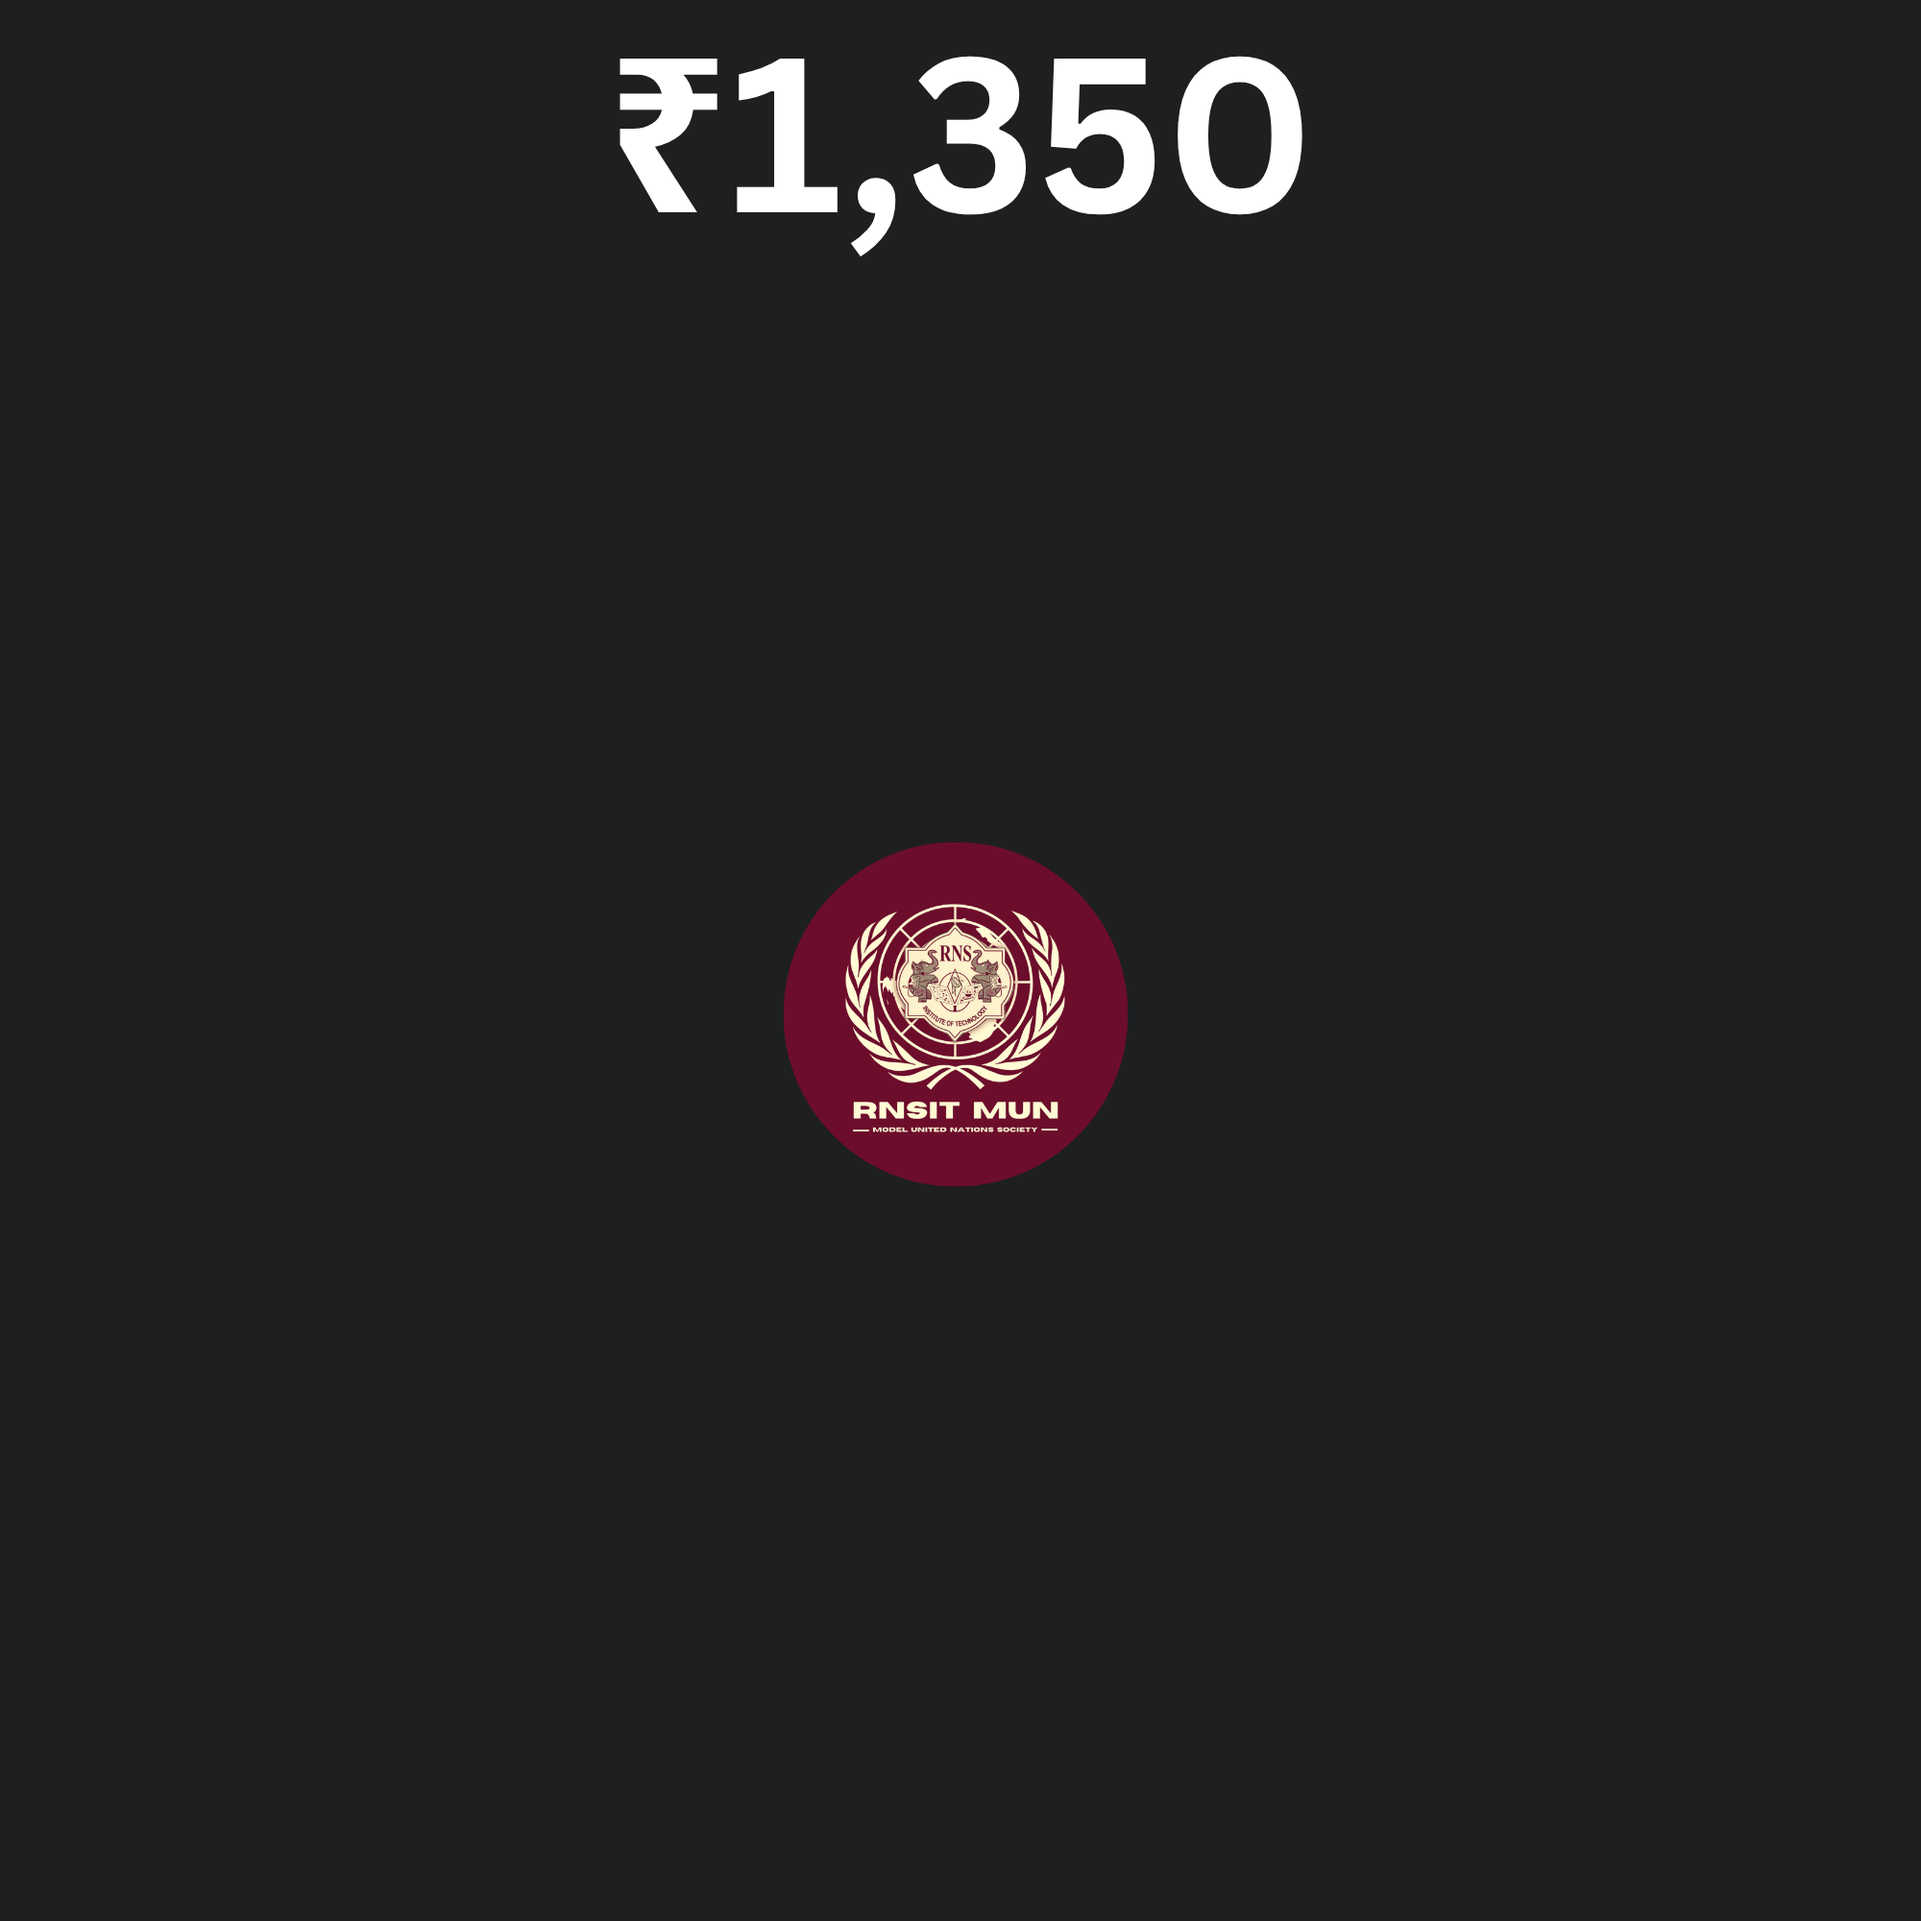
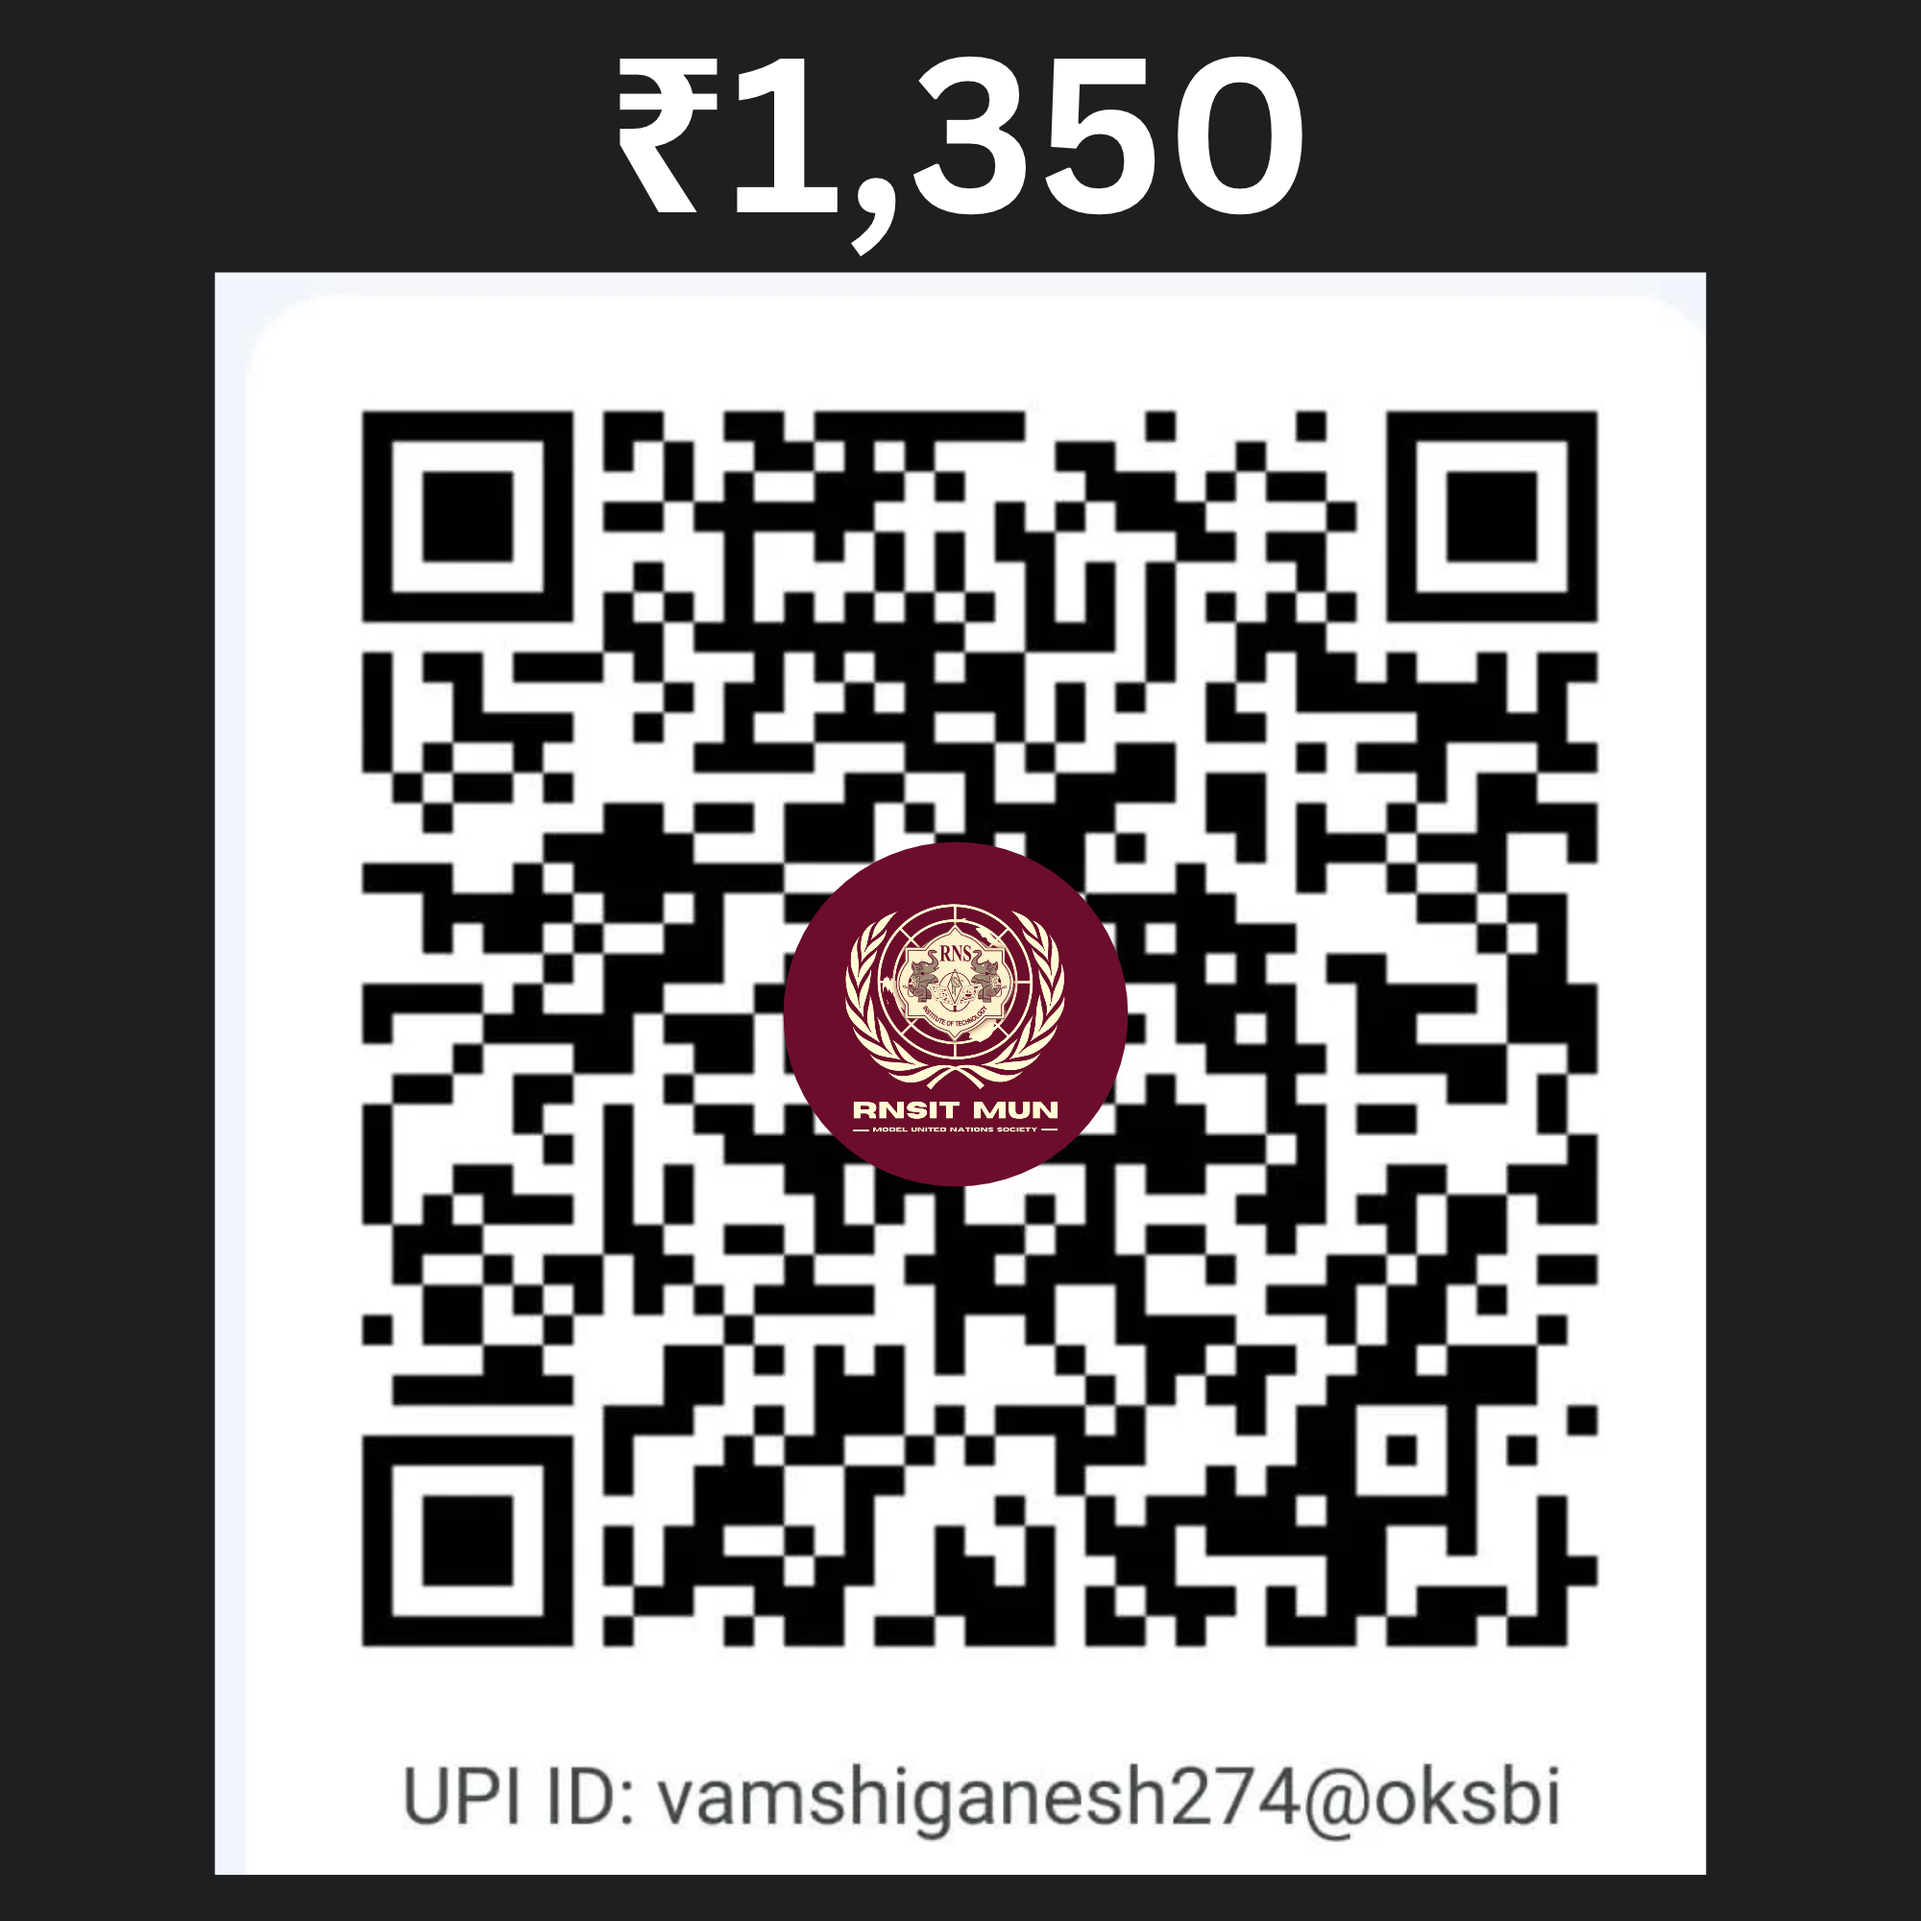
feat: fix external QR rotation & display, update designation to Delegate Affairs, and bump SW v11

diff --git a/registration.js b/registration.js
@@ -1,3 +1,6 @@
+    // Always clear stale session QR pin on fresh page load to guarantee dynamic rotation
+    try { sessionStorage.removeItem('mun26_assigned_ext_qr'); } catch (e) {}
+
     const COMMITTEE_MATRIX_LINKS = {
       all: 'https://docs.google.com/spreadsheets/d/1qOp6gJYndOc7b3xpyF1BmxrFWXyaRoDa/edit?gid=201693632#gid=201693632',
       unsc: 'https://docs.google.com/spreadsheets/d/1ilmTRceKjf9o5yGb820WMFA7UygDcb8bF_lIhUpvFQ8/edit?gid=1436649926#gid=1436649926',
@@ -2524,8 +2527,9 @@
       const regBackdrop = document.getElementById('registration-modal-backdrop');
       const regCard = document.getElementById('registration-modal-card');
 
-      // Clear any transient screenshot state
+      // Clear any transient screenshot state and unpin external QR
       resetPaymentScreenshotState();
+      try { sessionStorage.removeItem('mun26_assigned_ext_qr'); } catch (e) {}
 
       // Check if a saved draft exists in sessionStorage
       const restored = restoreDraft(forceType || currentDelegateType);
@@ -2569,6 +2573,7 @@
 
     // Close Registration Modal
     function closeRegistrationModal(fromPopState = false) {
+      try { sessionStorage.removeItem('mun26_assigned_ext_qr'); } catch (e) {}
       if (!fromPopState) {
         popModalHistoryState();
       }
@@ -3459,25 +3464,27 @@
 
     let _currentExternalAssignedUPI = 'nikhilnayak2005@okicici';
 
-    async function updateExternalPaymentQR() {
-      // 1. Session Pinning: If an account was already assigned during this registration flow, reuse it immediately
-      try {
-        const cached = sessionStorage.getItem('mun26_assigned_ext_qr');
-        if (cached) {
-          const parsed = JSON.parse(cached);
-          if (parsed && parsed.upiId && parsed.qrUrl) {
-            applyExternalQRUI(parsed.upiId, parsed.qrUrl);
-            return;
+    async function updateExternalPaymentQR(forceRefresh = false) {
+      // 1. Session Pinning: Only reuse if explicitly not force-refreshed and already assigned
+      if (!forceRefresh) {
+        try {
+          const cached = sessionStorage.getItem('mun26_assigned_ext_qr');
+          if (cached) {
+            const parsed = JSON.parse(cached);
+            if (parsed && parsed.upiId && parsed.qrUrl) {
+              applyExternalQRUI(parsed.upiId, parsed.qrUrl);
+              return;
+            }
           }
-        }
-      } catch (e) {}
+        } catch (e) {}
+      }
 
       // 2. Instant Zero-Flicker Synchronous Rotation: Apply client rotation immediately so the UI is NEVER blank or stale
-      applyClientExternalQRRotation();
+      applyClientExternalQRRotation(forceRefresh ? _currentExternalAssignedUPI : null);
 
       // 3. Background Sync with Server Rotation Engine (enforces <= 17 appearances per 24h rolling window globally)
       try {
-        const resp = await fetch('/api/get-external-qr');
+        const resp = await fetch(`/api/get-external-qr?t=${Date.now()}`, { cache: 'no-store' });
         if (resp.ok) {
           const data = await resp.json();
           if (data && data.success && data.upiId && data.qrUrl) {
@@ -3488,6 +3495,29 @@
       } catch (err) {
         console.warn('[External QR] Remote rotation notice:', err);
       }
+    }
+
+    function rotateExternalPaymentQR(event) {
+      if (event) {
+        event.preventDefault();
+        event.stopPropagation();
+      }
+      try {
+        sessionStorage.removeItem('mun26_assigned_ext_qr');
+      } catch (e) {}
+
+      const btn = document.getElementById('switch-external-upi-btn');
+      if (btn) {
+        const origHTML = btn.innerHTML;
+        btn.innerHTML = 'Switching UPI...';
+        btn.style.opacity = '0.7';
+        setTimeout(() => {
+          btn.innerHTML = origHTML;
+          btn.style.opacity = '1';
+        }, 800);
+      }
+
+      updateExternalPaymentQR(true);
     }
 
     function applyExternalQRUI(upiId, qrUrl) {
@@ -3504,7 +3534,7 @@
       }
     }
 
-    function applyClientExternalQRRotation() {
+    function applyClientExternalQRRotation(avoidUpiId = null) {
       const LOCAL_KEY = 'mun26_ext_qr_impressions';
       const MAX_PER_24H = 17;
       const WINDOW_MS = 24 * 60 * 60 * 1000;
@@ -3526,16 +3556,20 @@
       });
 
       let eligible = EXTERNAL_QR_POOL.filter(acc => counts[acc.upiId] < MAX_PER_24H);
-      let selected;
-      if (eligible.length > 0) {
-        const minCount = Math.min(...eligible.map(acc => counts[acc.upiId]));
-        const candidates = eligible.filter(acc => counts[acc.upiId] === minCount);
-        selected = candidates[Math.floor(Math.random() * candidates.length)];
-      } else {
-        const minCount = Math.min(...EXTERNAL_QR_POOL.map(acc => counts[acc.upiId]));
-        const candidates = EXTERNAL_QR_POOL.filter(acc => counts[acc.upiId] === minCount);
-        selected = candidates[Math.floor(Math.random() * candidates.length)];
+      if (avoidUpiId && eligible.length > 1) {
+        const filtered = eligible.filter(acc => acc.upiId !== avoidUpiId);
+        if (filtered.length > 0) eligible = filtered;
       }
+
+      let pool = eligible.length > 0 ? eligible : EXTERNAL_QR_POOL;
+      if (avoidUpiId && pool.length > 1) {
+        const filtered = pool.filter(acc => acc.upiId !== avoidUpiId);
+        if (filtered.length > 0) pool = filtered;
+      }
+
+      const minCount = Math.min(...pool.map(acc => counts[acc.upiId]));
+      const candidates = pool.filter(acc => counts[acc.upiId] === minCount);
+      const selected = candidates[Math.floor(Math.random() * candidates.length)];
 
       impressions.push({ upiId: selected.upiId, time: now });
       try {
@@ -5282,7 +5316,7 @@
             </div>
             <div class="receipt-contact-card">
               <span class="contact-name">Dhatri</span>
-              <span class="contact-role">Charge d'Affaires</span>
+              <span class="contact-role">Delegate Affairs</span>
               <span class="contact-phone">+91 90351 20294</span>
             </div>
           </div>
@@ -5421,7 +5455,7 @@
             </div>
             <div class="receipt-contact-card">
               <span class="contact-name">Dhatri</span>
-              <span class="contact-role">Charge d'Affaires</span>
+              <span class="contact-role">Delegate Affairs</span>
               <span class="contact-phone">+91 90351 20294</span>
             </div>
           </div>
@@ -5933,6 +5967,8 @@ Object.assign(window, {
   selectExternalCategory,
   handleProceedToExternalPayment,
   copyExternalUPI,
+  updateExternalPaymentQR,
+  rotateExternalPaymentQR,
   handleSuccessDone,
   printRegistrationReceipt,
   clearDraftAndDismissBanner,

diff --git a/registration.html b/registration.html
@@ -1547,6 +1547,15 @@
                 Copy
               </button>
             </div>
+
+            <div style="text-align: center; margin-top: 8px;">
+              <button type="button" id="switch-external-upi-btn" onclick="rotateExternalPaymentQR(event)"
+                style="background: transparent; border: none; color: var(--accent-color); font-size: 0.74rem; font-weight: 800; cursor: pointer; text-decoration: underline; padding: 2px 6px; font-family: var(--font-sans); display: inline-flex; align-items: center; gap: 4px;"
+                title="Rotate to another verified UPI ID and QR code">
+                <svg width="12" height="12" viewBox="0 0 24 24" fill="none" stroke="currentColor" stroke-width="2.5" stroke-linecap="round" stroke-linejoin="round" aria-hidden="true"><path d="M21.5 2v6h-6M21.34 15.57a10 10 0 1 1-.57-8.38l5.67-5.67"/></svg>
+                Switch UPI ID / Rotate QR
+              </button>
+            </div>
           </div>
 
           <!-- Non-Refundable Policy Notice -->
@@ -1774,6 +1783,7 @@
       };
     })();
   </script>
+  <script src="/register-sw.js"></script>
 </body>
 
 </html>

diff --git a/code-of-conduct.html b/code-of-conduct.html
@@ -1464,7 +1464,7 @@
             <div class="coc-contact-card">
               <div class="coc-card-header">
                 <span class="contact-name">Dhatri</span>
-                <span class="contact-role">Charge D'Affaires</span>
+                <span class="contact-role">Delegate Affairs</span>
               </div>
               <div class="contact-phone-row">
                 <a href="tel:+919035120294" class="contact-phone-link" title="Call Dhatri (+91 90351 20294)">

diff --git a/public/sw.js b/public/sw.js
@@ -1,4 +1,4 @@
-const CACHE_NAME = 'mun-cache-v9';
+const CACHE_NAME = 'mun-cache-v11';
 const PRECACHE_ASSETS = [
   '/',
   '/registration',
@@ -48,6 +48,7 @@ self.addEventListener('fetch', (e) => {
     e.request.method !== 'GET' ||
     !e.request.url.startsWith(self.location.origin) ||
     e.request.url.includes('/api/') ||
+    e.request.url.includes('/Payment_') ||
     e.request.url.includes('/@') ||
     e.request.url.includes('node_modules')
   ) {

diff --git a/stay-connected.html b/stay-connected.html
@@ -917,7 +917,7 @@
         <div class="person-contact-card">
           <div class="person-header-row">
             <h3 class="person-name">Dhatri</h3>
-            <div class="person-role-badge">Charge D'Affaires</div>
+            <div class="person-role-badge">Delegate Affairs</div>
           </div>
           <div class="person-phone-row">
             <a href="tel:+919035120294" class="person-phone-link" aria-label="Call Dhatri (+91 90351 20294)">

diff --git a/api/get-external-qr.js b/api/get-external-qr.js
@@ -74,6 +74,10 @@ export default async function handler(req, res) {
     'X-CSRF-Token, X-Requested-With, Accept, Accept-Version, Content-Length, Content-MD5, Content-Type, Date, X-Api-Version'
   );
 
+  res.setHeader('Cache-Control', 'no-store, no-cache, must-revalidate, proxy-revalidate');
+  res.setHeader('Pragma', 'no-cache');
+  res.setHeader('Expires', '0');
+
   if (req.method === 'OPTIONS') return res.status(200).end();
 
   try {

diff --git a/public/register-sw.js b/public/register-sw.js
@@ -1,6 +1,6 @@
 if ('serviceWorker' in navigator) {
   window.addEventListener('load', () => {
-    navigator.serviceWorker.register('/sw.js', { scope: '/' })
+    navigator.serviceWorker.register('/sw.js?v=11', { scope: '/' })
       .then((reg) => {
         console.log('Service Worker registered successfully on scope:', reg.scope);
         // Force an immediate check for SW updates on every page visit

diff --git a/venue.html b/venue.html
@@ -1242,6 +1242,7 @@
   <script type="module" src="./mobile-floating-menu.js"></script>
   <script type="module" src="./language-switcher.js"></script>
   <script type="module" src="./analytics.js"></script>
+  <script src="/register-sw.js"></script>
 
 </body>
 </html>
